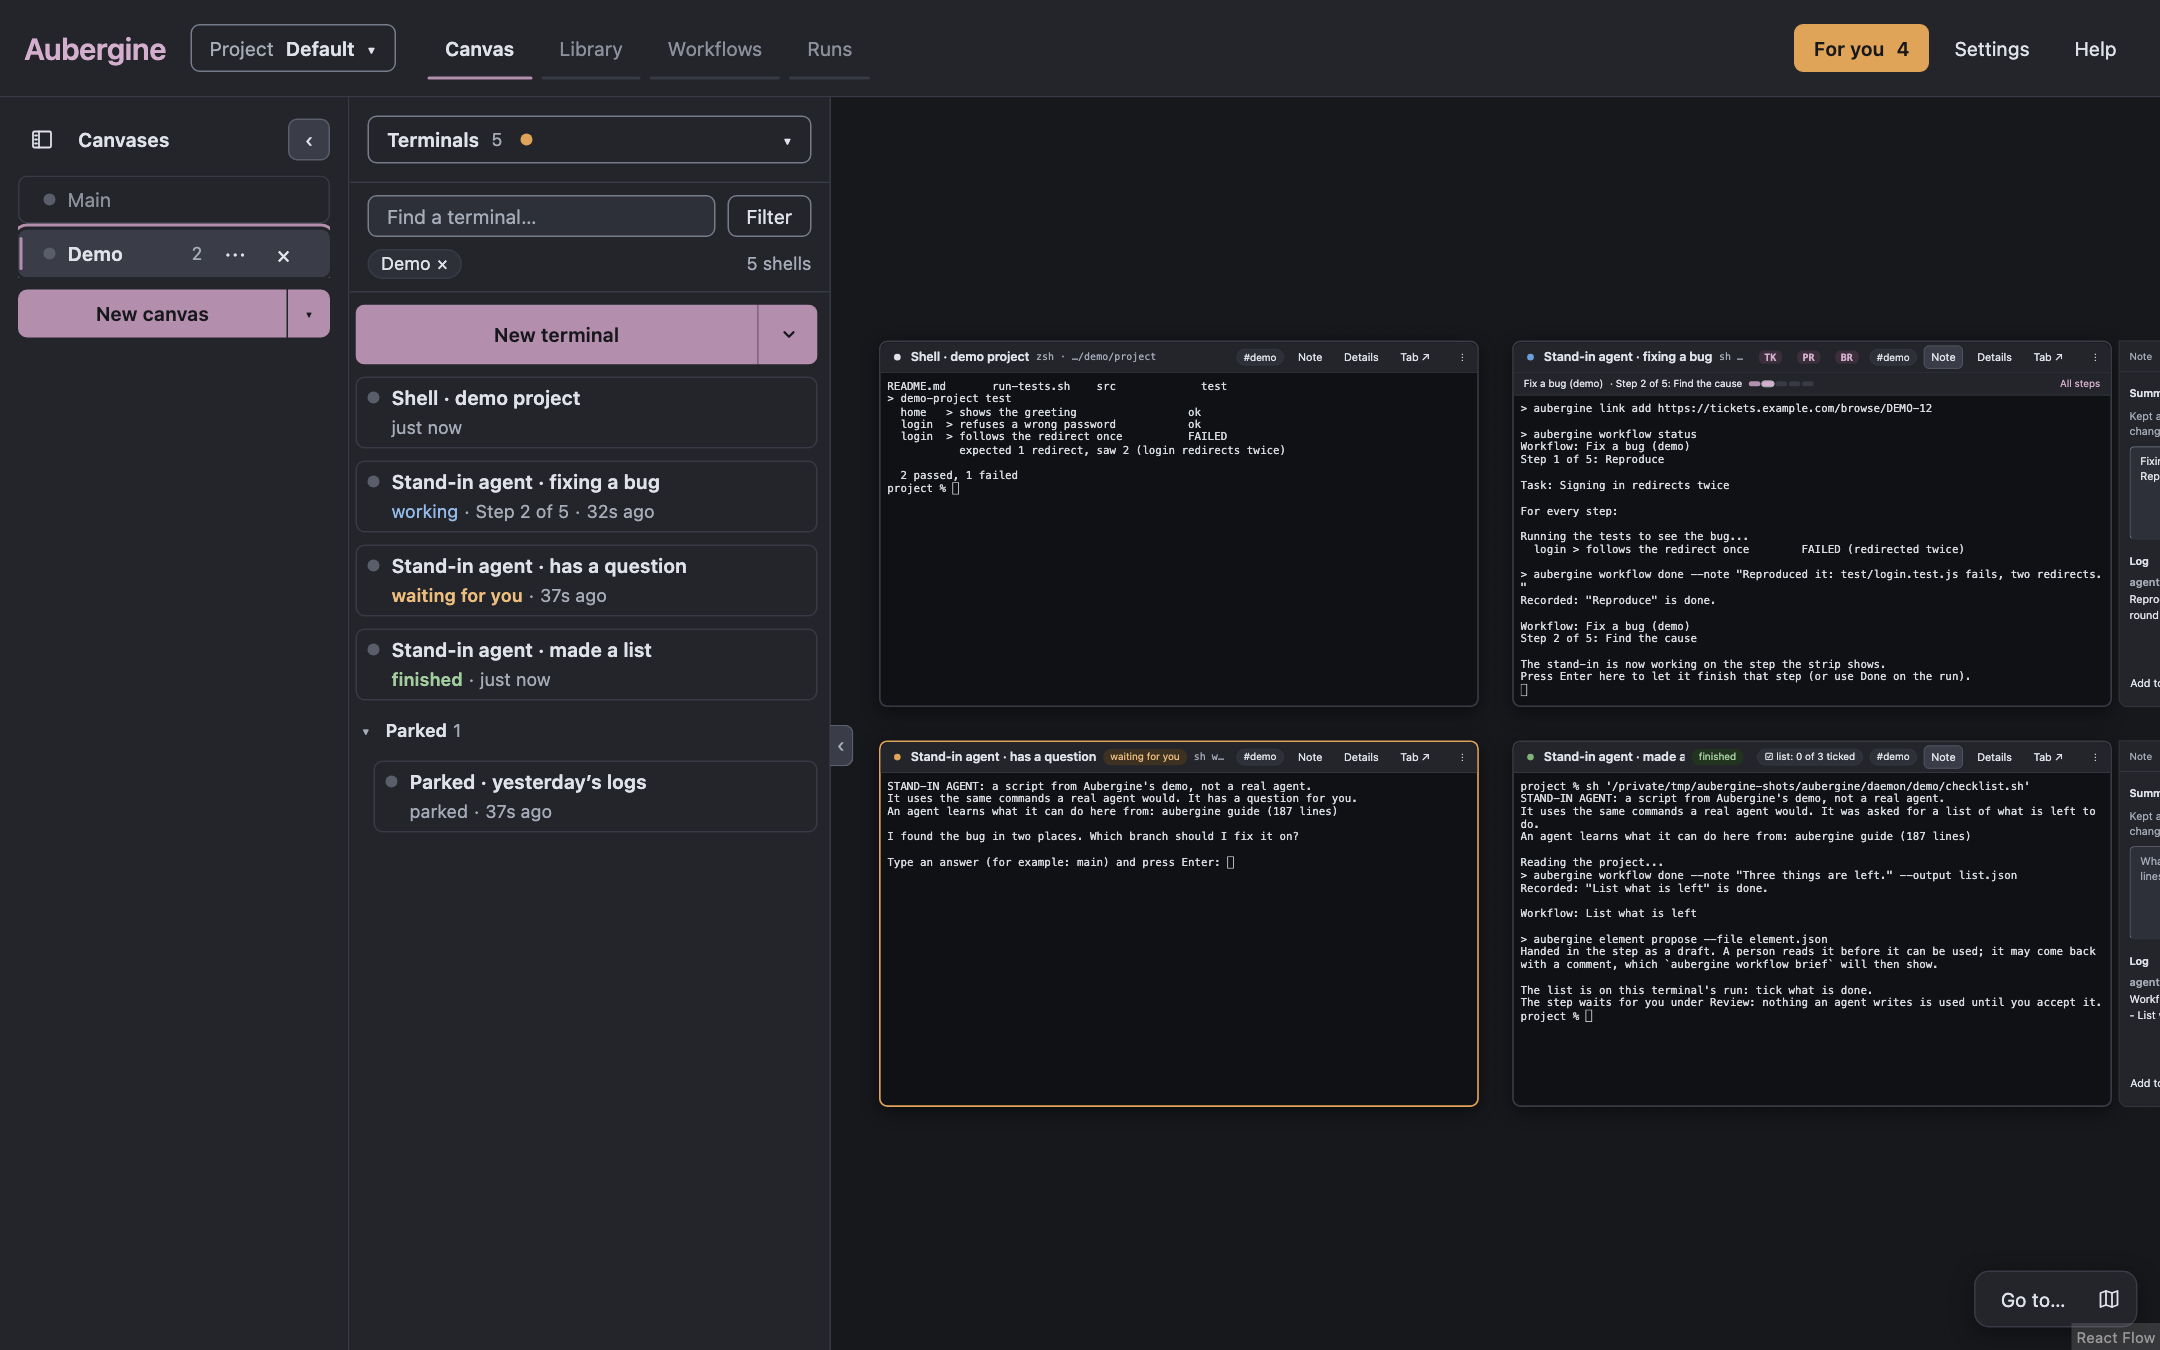
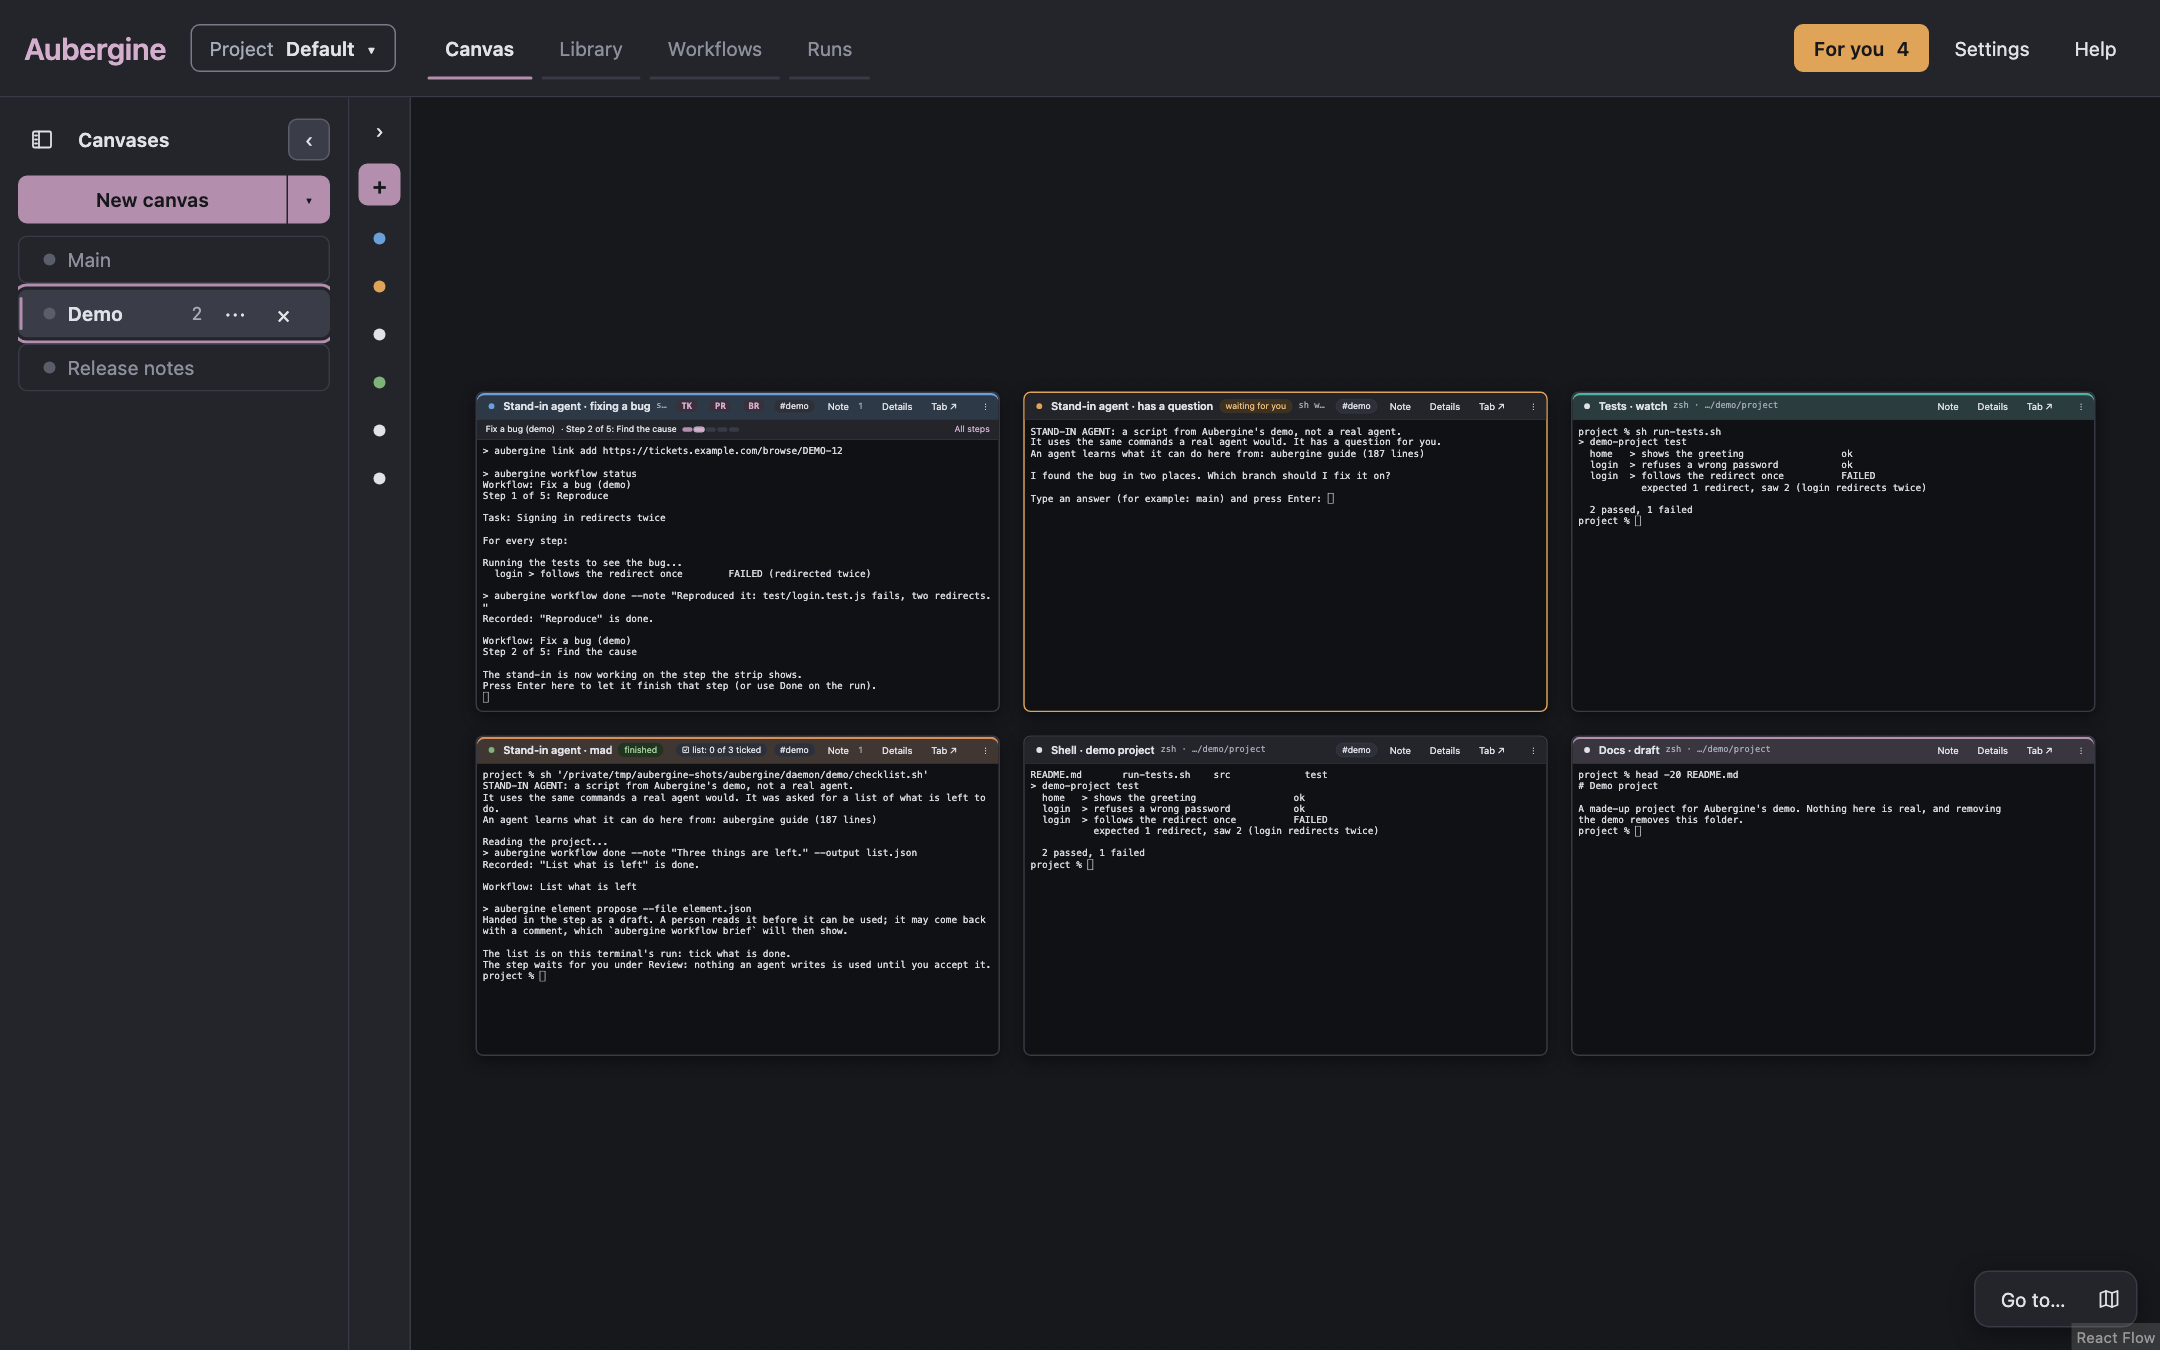
A new main picture: three canvases and six terminals, some in color
The picture on the site and at the top of the README now shows three
canvases in the column (with New canvas at the top) and six terminals in a
grid, four of them in colors of their own. Taken from a copy in a neutral
folder with a plain prompt.

diff --git a/site/index.html b/site/index.html
@@ -232,9 +232,9 @@
       <figure class="shot">
         <picture>
           <source srcset="screenshots/canvas-light.png" media="(prefers-color-scheme: light)">
-          <img src="screenshots/canvas-dark.png" width="2160" height="1350" loading="lazy" alt="The Aubergine canvas: canvases in a column on the left, the list of terminals with their state in words, and four live terminals on the canvas, one of them waiting for you.">
+          <img src="screenshots/canvas-dark.png" width="2160" height="1350" loading="lazy" alt="The Aubergine canvas: three canvases in a column on the left, and six live terminals on the canvas, four of them in colors of their own, one waiting for you.">
         </picture>
-        <figcaption>Two canvases on the left, every terminal in the list with what it is doing, and the terminals themselves, live. The one with a question waits for you.</figcaption>
+        <figcaption>Three canvases on the left, and six terminals, live, some in colors of their own. The one with a question waits for you.</figcaption>
       </figure>
     </section>
 

diff --git a/README.md b/README.md
@@ -8,7 +8,7 @@
 
 <picture>
   <source srcset="site/screenshots/canvas-light.png" media="(prefers-color-scheme: light)">
-  <img src="site/screenshots/canvas-dark.png" alt="The Aubergine canvas: canvases in a column on the left, the list of terminals with what each is doing, and four live terminals, one waiting for you.">
+  <img src="site/screenshots/canvas-dark.png" alt="The Aubergine canvas: three canvases in a column on the left, and six live terminals, four of them in colors of their own, one waiting for you.">
 </picture>
 
 <sub>The demo that comes with Aubergine: stand-in agents, no real ones. More in <a href="#what-it-looks-like">What it looks like</a>.</sub>
